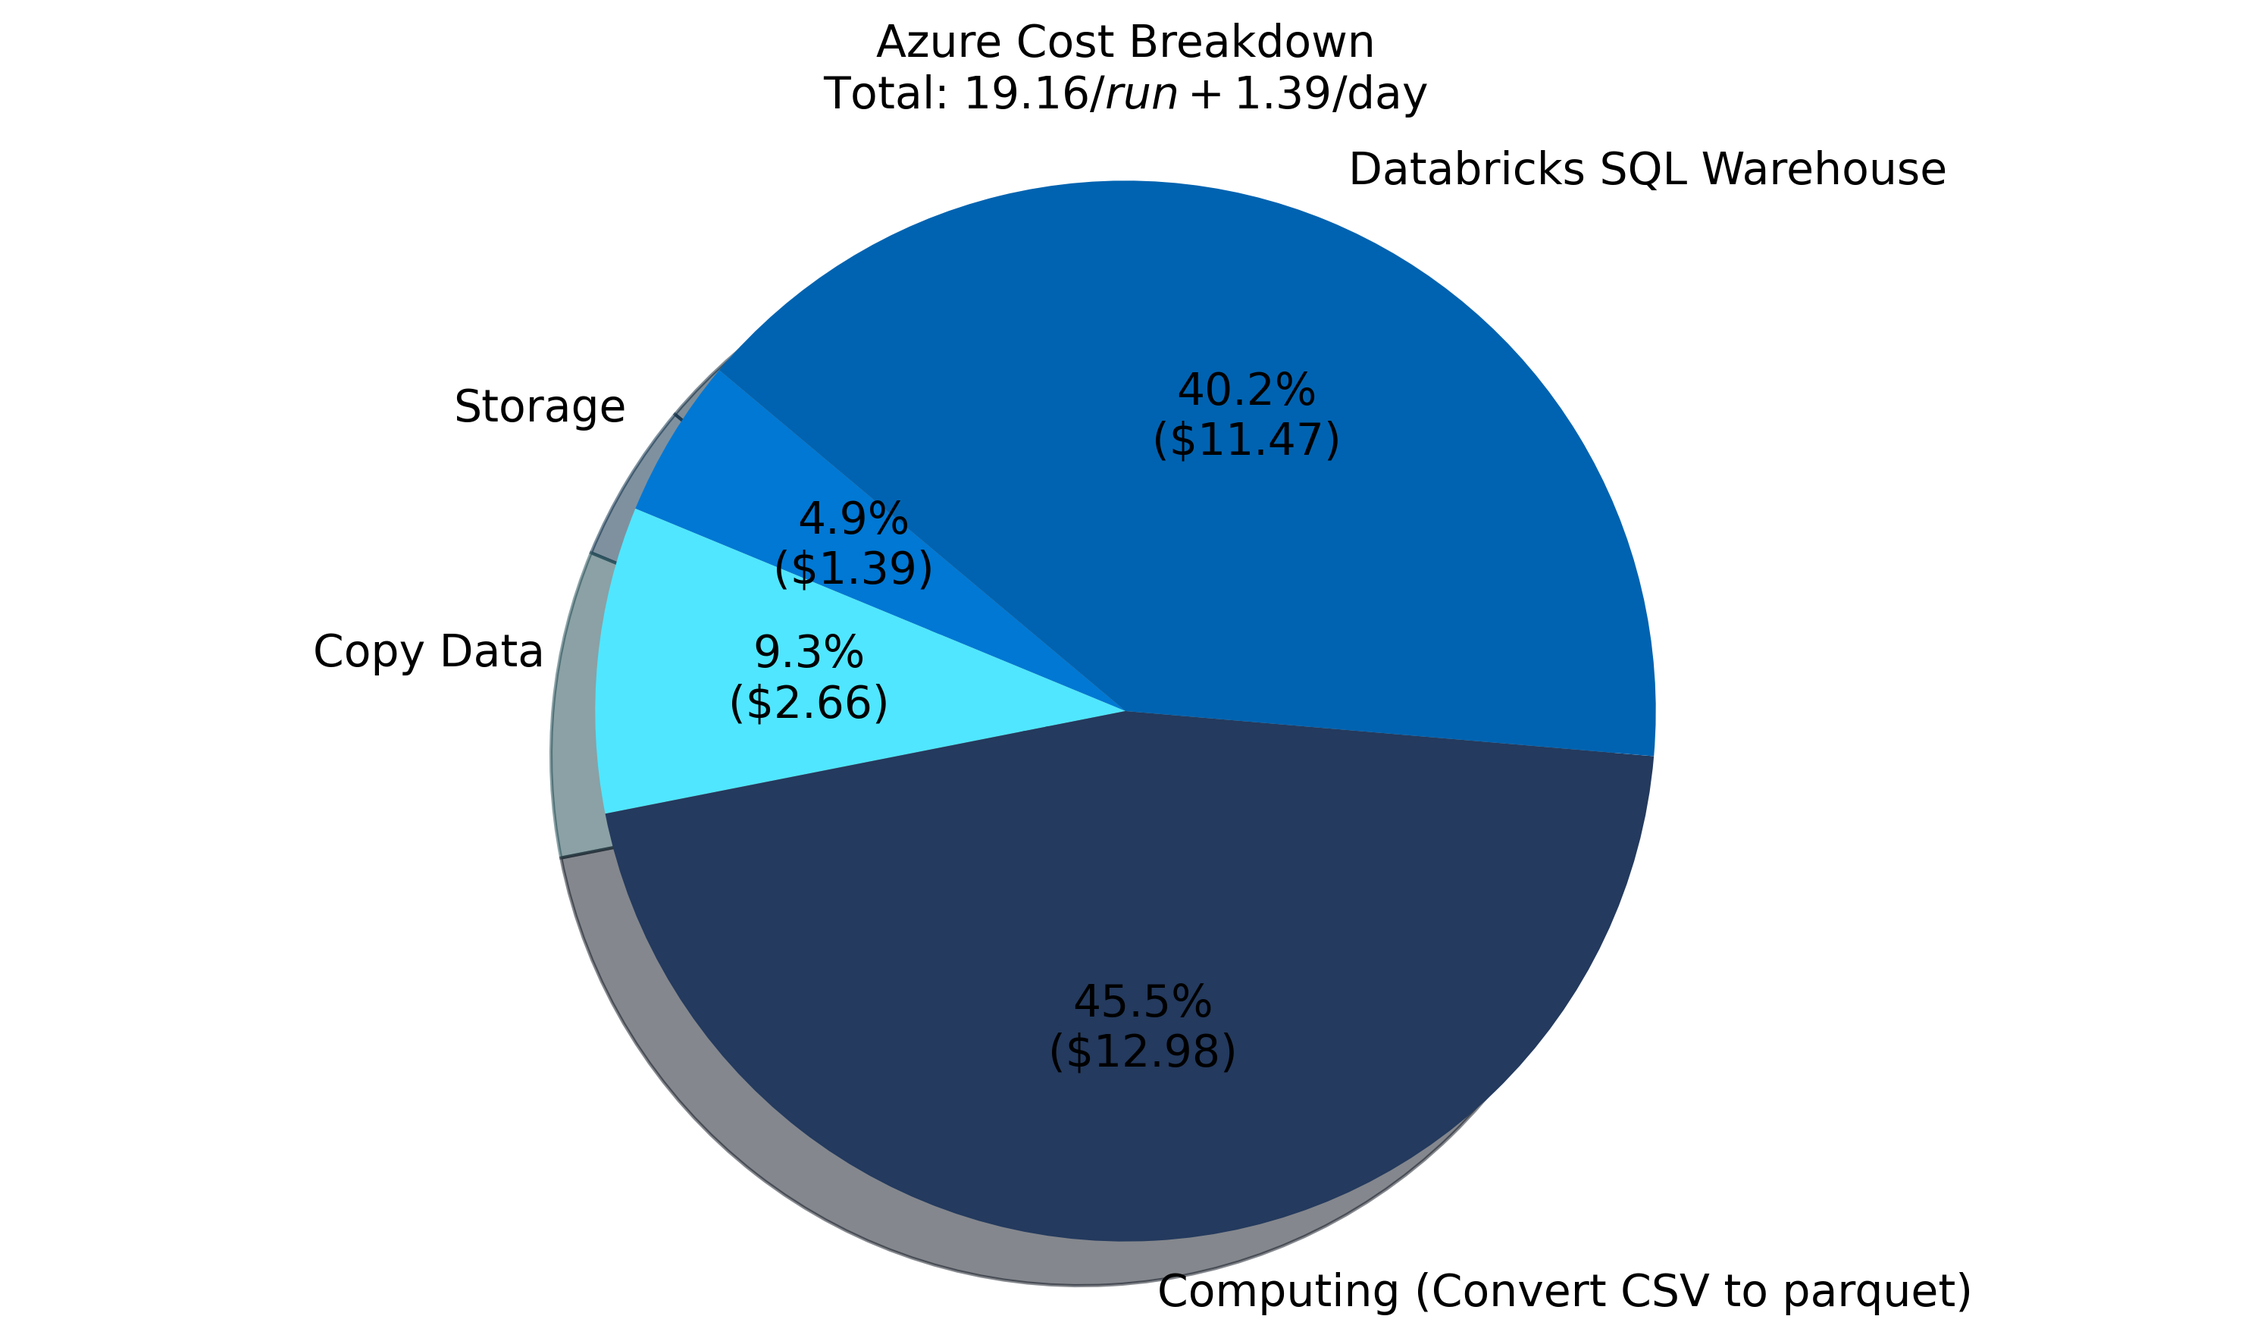
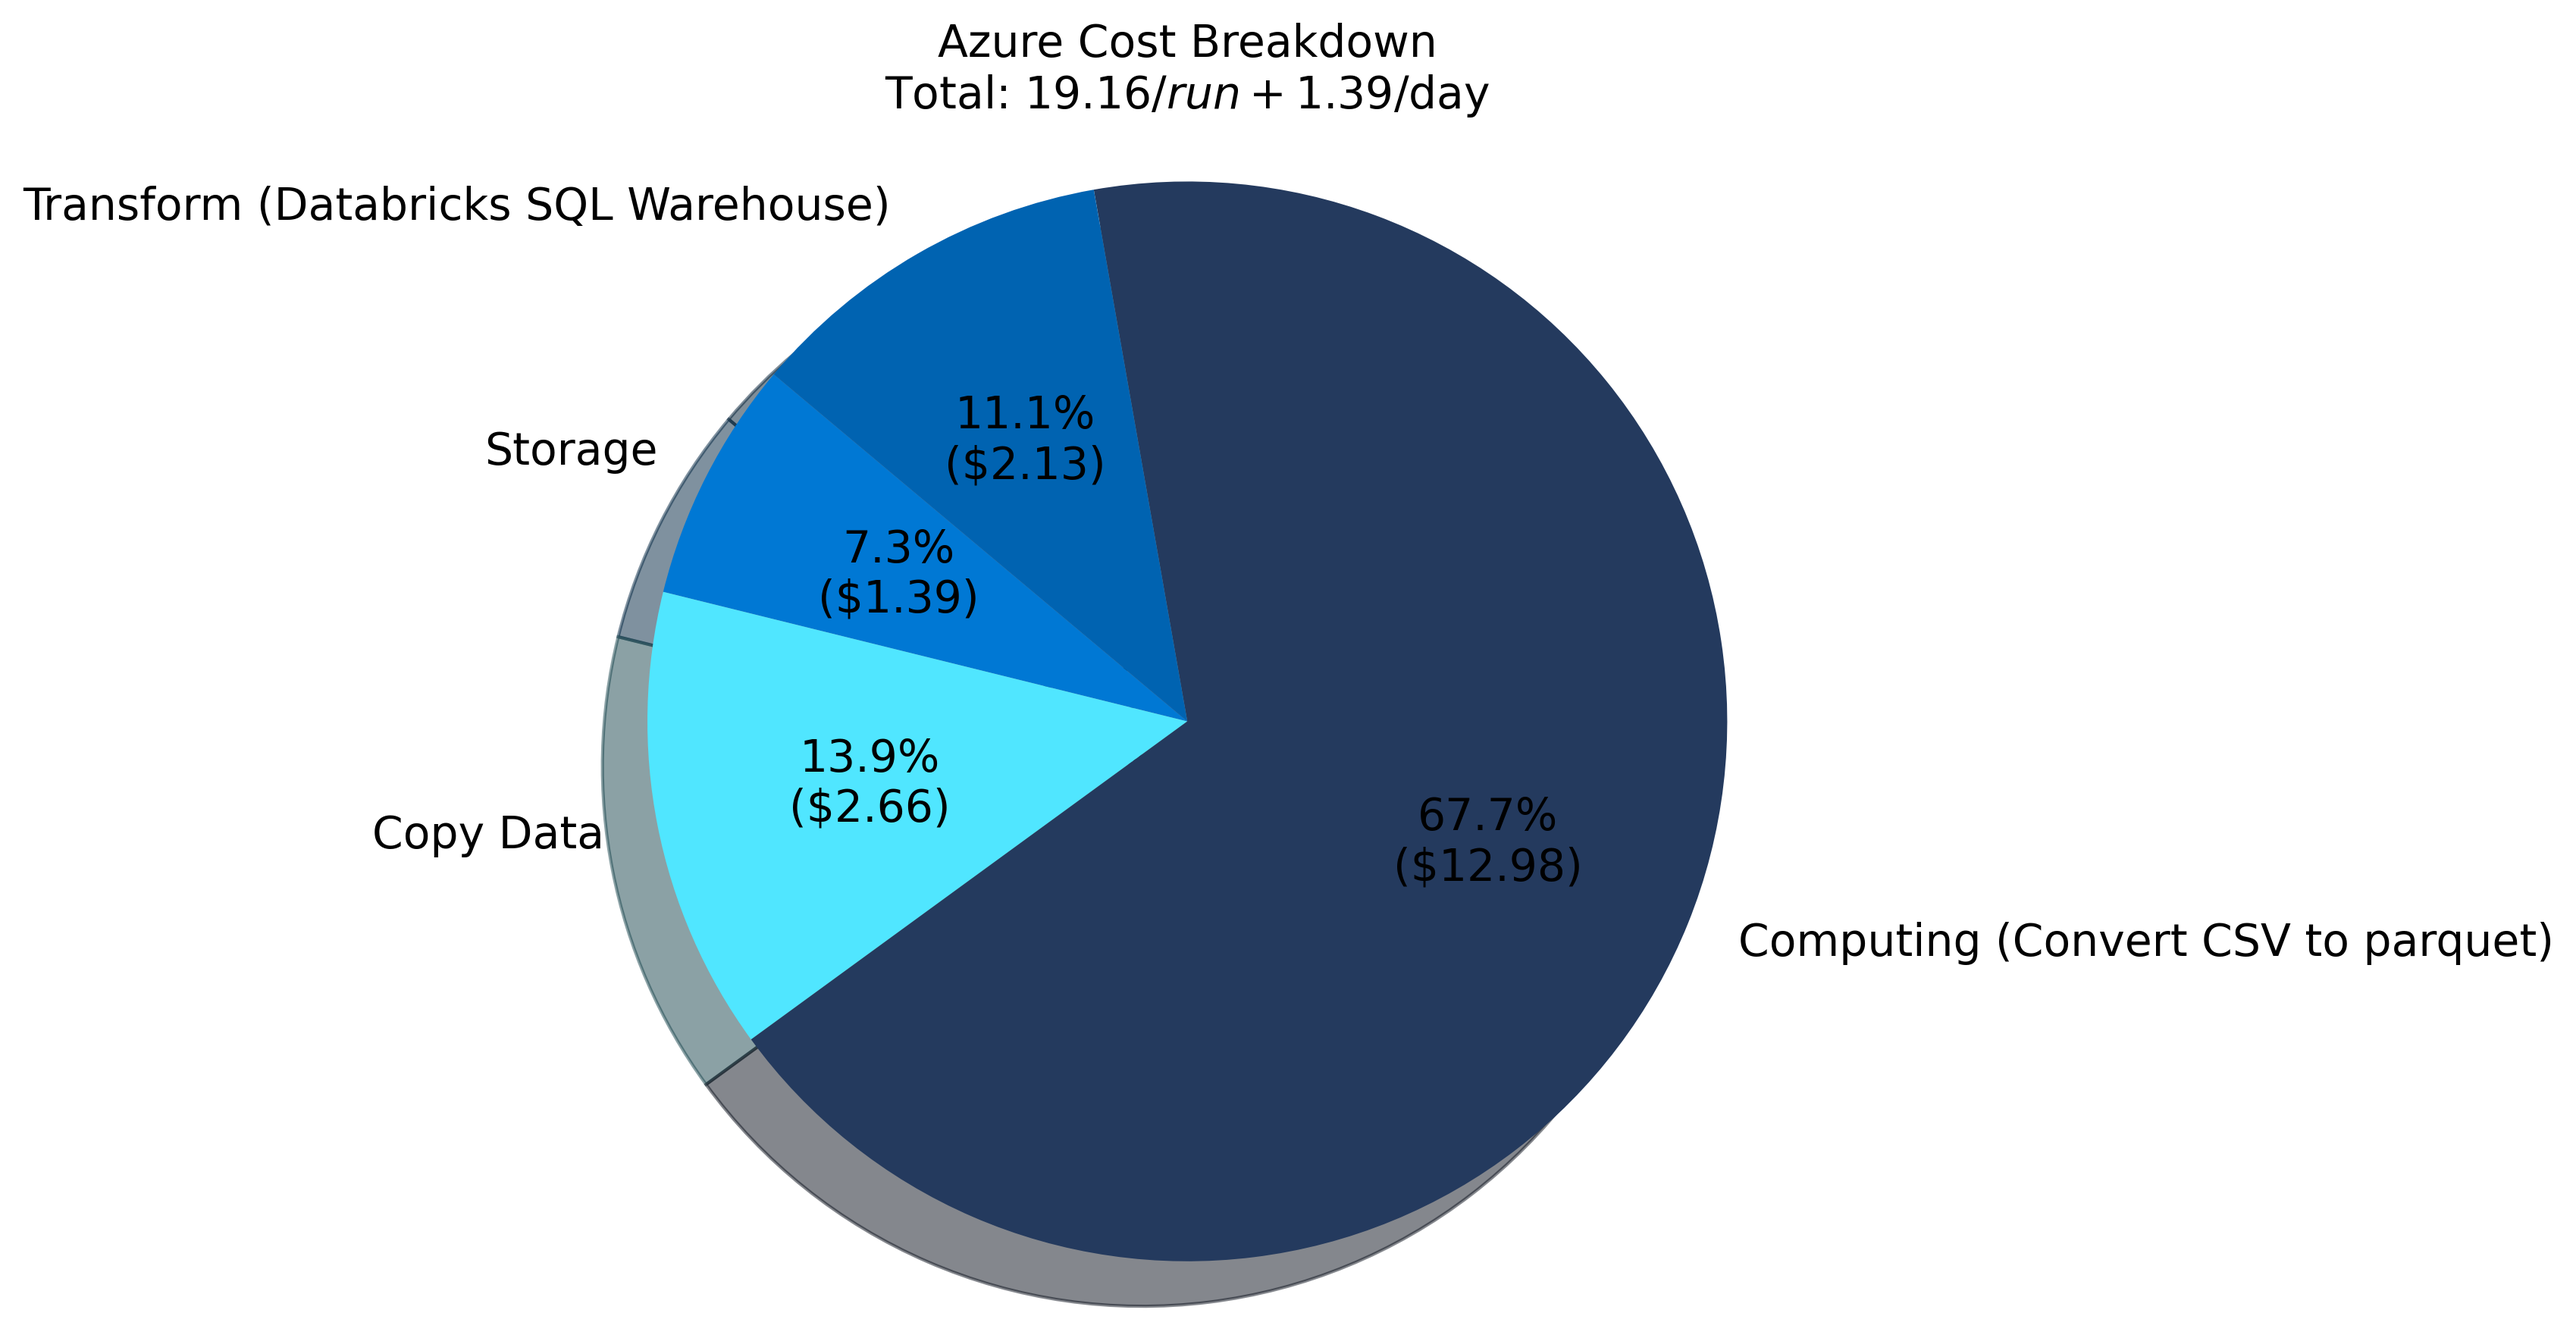
Update charts and correct variable name

diff --git a/create_cost_performance_charts.py b/create_cost_performance_charts.py
@@ -7,51 +7,51 @@ os.makedirs('images/comparison', exist_ok=True)
 
 # Cost comparison data (in USD)
 # Azure costs
-azure_storage = 1.39  # daily storage cost
-azure_copy_data = 2.66  # data transfer cost per run (formerly network)
-azure_compute_vm = 1.88  # VM instance cost per run
-azure_compute_databricks = 11.10  # Databricks cluster cost per run
-azure_transform = 2.13  # Databricks SQL Warehouse cost per run
+azure_storage_cost = 1.39  # daily storage cost
+azure_copy_data_cost = 2.66  # data transfer cost per run (formerly network)
+azure_compute_vm_cost = 1.88  # VM instance cost per run
+azure_compute_databricks_cost = 11.10  # Databricks cluster cost per run
+azure_transform_cost = 2.13  # Databricks SQL Warehouse cost per run
 
 # GCP costs
-gcp_storage = 0.67  # daily storage cost
-gcp_copy_data = 12.98  # data egress cost per run (formerly network)
-gcp_compute_vm = 2.60  # VM instance cost per run
-gcp_compute_databricks = 14.22  # Databricks cluster cost per run
+gcp_storage_cost = 0.67  # daily storage cost
+gcp_copy_data_cost = 12.98  # data egress cost per run (formerly network)
+gcp_compute_vm_cost = 2.60  # VM instance cost per run
+gcp_compute_databricks_cost = 14.22  # Databricks cluster cost per run
 gcp_transform_cost = 7.84  # BigQuery transform cost per run
-gcp_transform_databricks = 2.7  # Databricks SQL Warehouse cost per run
+gcp_transform_databricks_cost = 2.7  # Databricks SQL Warehouse cost per run
 
 # Snowflake costs
-snowflake_egress_gcp = 6.37  # egress copy from GCP cost per run
-snowflake_transform = 30.0  # transform data cost per run
+snowflake_egress_gcp_cost = 6.37  # egress copy from GCP cost per run
+snowflake_transform_cost = 30.0  # transform data cost per run
 
 # Calculate total costs (including copy data/egress)
-azure_total_with_copy_data = azure_storage + azure_copy_data + azure_compute_vm + azure_compute_databricks
-gcp_total_with_copy_data = gcp_storage + gcp_copy_data + gcp_compute_vm + gcp_compute_databricks + gcp_transform_cost
+azure_total_with_copy_data_cost = azure_storage_cost + azure_copy_data_cost + azure_compute_vm_cost + azure_compute_databricks_cost
+gcp_total_with_copy_data_cost = gcp_storage_cost + gcp_copy_data_cost + gcp_compute_vm_cost + gcp_compute_databricks_cost + gcp_transform_cost
 
 # Calculate total costs (excluding copy data/egress as per requirement)
-azure_total = azure_storage + azure_compute_vm + azure_compute_databricks
-gcp_total = gcp_storage + gcp_compute_vm + gcp_compute_databricks + gcp_transform_cost
+azure_total_cost = azure_storage_cost + azure_compute_vm_cost + azure_compute_databricks_cost
+gcp_total_cost = gcp_storage_cost + gcp_compute_vm_cost + gcp_compute_databricks_cost + gcp_transform_cost
 
 # Calculate transform costs for comparison
-bigquery_transform = gcp_transform_cost  # BigQuery transform cost
-databricks_gcp_transform = gcp_transform_databricks  # Databricks SQL Warehouse cost on GCP
-snowflake_transform_cost = snowflake_transform  # Snowflake transform cost
+bigquery_transform_cost = gcp_transform_cost  # BigQuery transform cost
+databricks_gcp_transform_cost = gcp_transform_databricks_cost  # Databricks SQL Warehouse cost on GCP
+# snowflake_transform_cost already has the correct naming
 
 # Performance comparison data (in minutes)
 # Azure performance
-azure_convert = 120.65  # Convert CSV to Parquet (120min 39s)
-azure_transform = 11.47  # Transform (11min 28s)
-azure_materialize = 14.43  # Materialize (14min 26s)
+azure_convert_time = 120.65  # Convert CSV to Parquet (120min 39s)
+azure_transform_time = 11.47  # Transform (11min 28s)
+azure_materialize_time = 14.43  # Materialize (14min 26s)
 
 # GCP performance
-gcp_convert = 91.0  # Convert CSV to Parquet (91min)
+gcp_convert_time = 91.0  # Convert CSV to Parquet (91min)
 gcp_transform_time = 1.62  # Transform (1min 37s)
-gcp_materialize = 1.05  # Materialize (1min 3s)
+gcp_materialize_time = 1.05  # Materialize (1min 3s)
 
 # Calculate total execution times
-azure_total_time = azure_convert + azure_transform + azure_materialize
-gcp_total_time = gcp_convert + gcp_transform_time + gcp_materialize
+azure_total_time = azure_convert_time + azure_transform_time + azure_materialize_time
+gcp_total_time = gcp_convert_time + gcp_transform_time + gcp_materialize_time
 
 # Custom autopct function to show both percentage and value
 def make_autopct(values):
@@ -62,7 +62,7 @@ def make_autopct(values):
     return my_autopct
 
 # Calculate total costs for GCP with Databricks SQL
-gcp_total_databricks = gcp_storage + gcp_compute_vm + gcp_compute_databricks + gcp_transform_databricks
+gcp_total_databricks_cost = gcp_storage_cost + gcp_compute_vm_cost + gcp_compute_databricks_cost + gcp_transform_databricks_cost
 
 # Create cost comparison pie charts (excluding network/egress costs) - side by side
 plt.figure(figsize=(20, 8))
@@ -70,7 +70,7 @@ plt.figure(figsize=(20, 8))
 # First subplot - Azure vs GCP with BigQuery
 plt.subplot(1, 2, 1)
 labels_bigquery = ['Azure', 'GCP with BigQuery']
-sizes_bigquery = [azure_total, gcp_total]
+sizes_bigquery = [azure_total_cost, gcp_total_cost]
 colors_bigquery = ['#0078D4', '#EA4335']  # Azure blue, Google red
 explode_bigquery = (0.1, 0)  # explode Azure slice
 
@@ -83,7 +83,7 @@ plt.title('Cost Comparison: Azure vs GCP with BigQuery', fontsize=14)
 # Second subplot - Azure vs GCP with Databricks SQL
 plt.subplot(1, 2, 2)
 labels_databricks = ['Azure', 'GCP with Databricks SQL']
-sizes_databricks = [azure_total, gcp_total_databricks]
+sizes_databricks = [azure_total_cost, gcp_total_databricks_cost]
 colors_databricks = ['#0078D4', '#DB4437']  # Azure blue, Google dark red
 explode_databricks = (0.1, 0)  # explode Azure slice
 
@@ -100,9 +100,9 @@ plt.close()
 # Create detailed cost breakdown for Azure
 plt.figure(figsize=(10, 6))
 # Combine VM Instance and Databricks Cluster into Computing (Convert CSV to parquet)
-azure_compute_convert = azure_compute_vm + azure_compute_databricks
-azure_labels = ['Storage', 'Copy Data', 'Computing (Convert CSV to parquet)', 'Databricks SQL Warehouse']
-azure_sizes = [azure_storage, azure_copy_data, azure_compute_convert, azure_transform]
+azure_compute_convert_cost = azure_compute_vm_cost + azure_compute_databricks_cost
+azure_labels = ['Storage', 'Copy Data', 'Computing (Convert CSV to parquet)', 'Transform (Databricks SQL Warehouse)']
+azure_sizes = [azure_storage_cost, azure_copy_data_cost, azure_compute_convert_cost, azure_transform_cost]
 azure_colors = ['#0078D4', '#50e6ff', '#243a5e', '#0063B1']
 
 plt.pie(azure_sizes, labels=azure_labels, colors=azure_colors, 
@@ -120,9 +120,9 @@ plt.figure(figsize=(20, 8))
 # First subplot - GCP with BigQuery
 plt.subplot(1, 2, 1)
 # Combine VM Instance and Databricks Cluster into Computing (Convert CSV to parquet)
-gcp_compute_convert = gcp_compute_vm + gcp_compute_databricks
-gcp_bigquery_labels = ['Storage', 'Copy Data', 'Computing (Convert CSV to parquet)', 'BigQuery Transform']
-gcp_bigquery_sizes = [gcp_storage, gcp_copy_data, gcp_compute_convert, gcp_transform_cost]
+gcp_compute_convert_cost = gcp_compute_vm_cost + gcp_compute_databricks_cost
+gcp_bigquery_labels = ['Storage', 'Copy Data', 'Computing (Convert CSV to parquet)', 'Transform (BigQuery)']
+gcp_bigquery_sizes = [gcp_storage_cost, gcp_copy_data_cost, gcp_compute_convert_cost, gcp_transform_cost]
 gcp_bigquery_colors = ['#4285F4', '#34A853', '#FBBC05', '#5F6368']
 
 plt.pie(gcp_bigquery_sizes, labels=gcp_bigquery_labels, colors=gcp_bigquery_colors, 
@@ -134,9 +134,9 @@ plt.title('GCP Cost Breakdown with BigQuery\nTotal: $38.31/run + $0.67/day', fon
 # Second subplot - GCP with Databricks SQL Warehouse
 plt.subplot(1, 2, 2)
 # Combine VM Instance and Databricks Cluster into Computing (Convert CSV to parquet)
-gcp_compute_convert = gcp_compute_vm + gcp_compute_databricks
-gcp_databricks_labels = ['Storage', 'Copy Data', 'Computing (Convert CSV to parquet)', 'Databricks SQL Warehouse']
-gcp_databricks_sizes = [gcp_storage, gcp_copy_data, gcp_compute_convert, gcp_transform_databricks]
+gcp_compute_convert_cost = gcp_compute_vm_cost + gcp_compute_databricks_cost
+gcp_databricks_labels = ['Storage', 'Copy Data', 'Computing (Convert CSV to parquet)', 'Transform (Databricks SQL Warehouse)']
+gcp_databricks_sizes = [gcp_storage_cost, gcp_copy_data_cost, gcp_compute_convert_cost, gcp_transform_databricks_cost]
 gcp_databricks_colors = ['#4285F4', '#34A853', '#FBBC05', '#5F6368']  # Using same color as BigQuery Transform
 
 plt.pie(gcp_databricks_sizes, labels=gcp_databricks_labels, colors=gcp_databricks_colors, 
@@ -182,11 +182,11 @@ x = np.arange(3)  # 3 operations
 width = 0.35
 
 # Azure bars - using a distinct blue
-azure_bars = plt.bar(x - width/2, [azure_convert, azure_transform, azure_materialize], 
+azure_bars = plt.bar(x - width/2, [azure_convert_time, azure_transform_time, azure_materialize_time], 
                     width, label='Azure', color='#0078D4')
 
 # GCP bars - using Google red for better contrast
-gcp_bars = plt.bar(x + width/2, [gcp_convert, gcp_transform_time, gcp_materialize], 
+gcp_bars = plt.bar(x + width/2, [gcp_convert_time, gcp_transform_time, gcp_materialize_time], 
                   width, label='GCP', color='#EA4335')
 
 plt.xlabel('Processing Step', fontsize=14)
@@ -197,8 +197,8 @@ plt.yticks(fontsize=12)
 plt.legend(fontsize=12)
 
 # Set y-axis limit to leave more room for labels
-max_value = max(azure_convert, azure_transform, azure_materialize, 
-                gcp_convert, gcp_transform_time, gcp_materialize)
+max_value = max(azure_convert_time, azure_transform_time, azure_materialize_time, 
+                gcp_convert_time, gcp_transform_time, gcp_materialize_time)
 plt.ylim(0, max_value * 1.15)  # Add 15% more space at the top
 
 # Add value labels on top of bars
@@ -218,11 +218,11 @@ x = np.arange(2)  # 2 operations (transform and materialize)
 width = 0.35
 
 # Azure bars - using a distinct blue
-azure_bars = plt.bar(x - width/2, [azure_transform, azure_materialize], 
+azure_bars = plt.bar(x - width/2, [azure_transform_time, azure_materialize_time], 
                     width, label='Azure', color='#0078D4')
 
 # GCP bars - using Google red for better contrast
-gcp_bars = plt.bar(x + width/2, [gcp_transform_time, gcp_materialize], 
+gcp_bars = plt.bar(x + width/2, [gcp_transform_time, gcp_materialize_time], 
                   width, label='GCP', color='#EA4335')
 
 plt.xlabel('Processing Step', fontsize=14)
@@ -233,7 +233,7 @@ plt.yticks(fontsize=12)
 plt.legend(fontsize=12)
 
 # Set y-axis limit to leave more room for labels
-max_value = max(azure_transform, azure_materialize, gcp_transform_time, gcp_materialize)
+max_value = max(azure_transform_time, azure_materialize_time, gcp_transform_time, gcp_materialize_time)
 plt.ylim(0, max_value * 1.3)  # Add 30% more space at the top for this chart
 
 # Add value labels on top of bars
@@ -254,7 +254,7 @@ width = 0.5
 
 # Use distinct colors
 platform_colors = ['#4285F4', '#EA4335', '#29B5E8']  # BigQuery blue, Databricks red, Snowflake blue
-transform_costs = [bigquery_transform, databricks_gcp_transform, snowflake_transform_cost]
+transform_costs = [bigquery_transform_cost, databricks_gcp_transform_cost, snowflake_transform_cost]
 bars = plt.bar(x, transform_costs, width, color=platform_colors)
 plt.xlabel('Platform', fontsize=14)
 plt.ylabel('Transform Cost (USD per Run)', fontsize=14)
